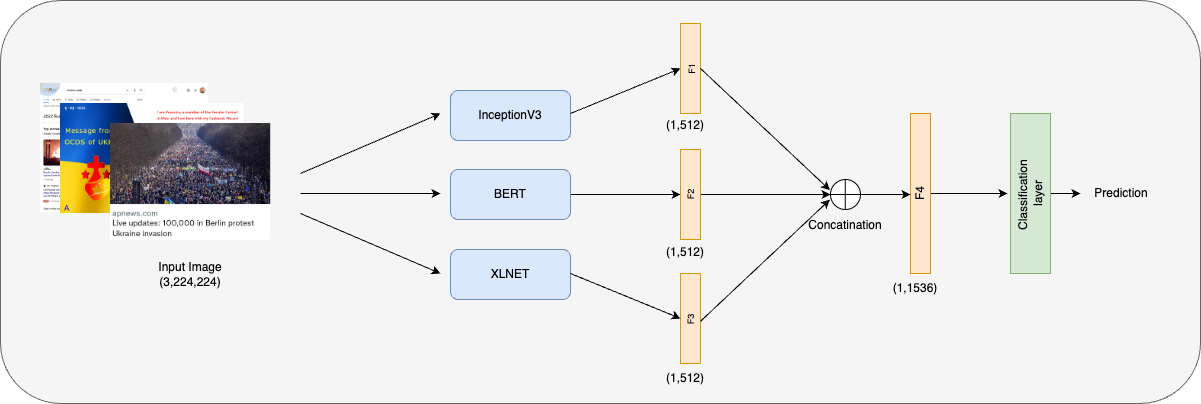
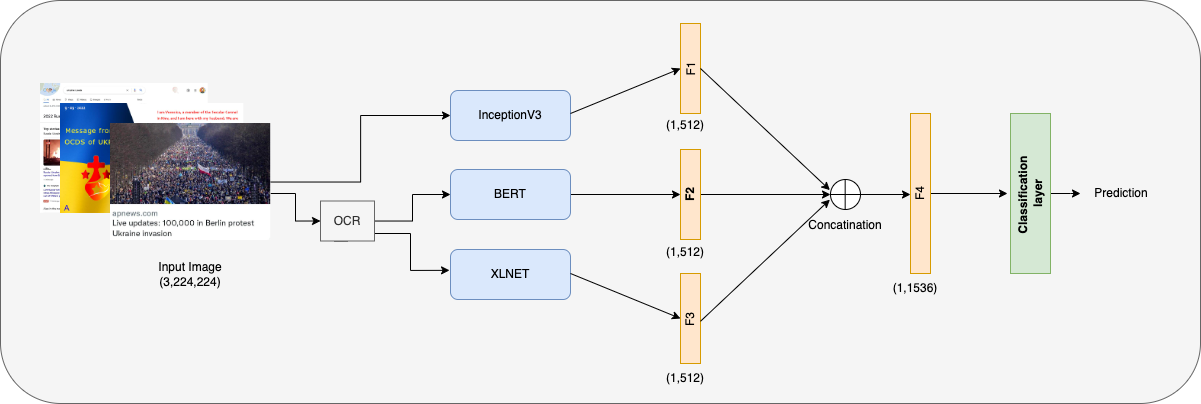
minor changes

diff --git a/model.py b/model.py
@@ -20,8 +20,8 @@ class ReBert(nn.Module):
 
       self.bert = bert.to(device)
       self.xlnet  = xlnet.to(device)
-      self.mobilenet = models.mobilenet_v3_small(pretrained=True)
-      self.mobilenet.classifier[3] = nn.Linear(in_features=1024, out_features=512, bias=True)
+      self.inception = models.inception_v3(pretrained=True)
+      self.inception.fc = nn.Linear(in_features=2048, out_features=512, bias=True)
       
 
       # dropout layer
@@ -62,7 +62,7 @@ class ReBert(nn.Module):
       x0 = self.relu(self.fc0(x0.pooler_output))
       
       image = image.permute(0,3,1,2)
-      x2 = self.relu(self.mobilenet(image))
+      x2 = self.relu(self.inception(image))
 
       x = self.fc2(torch.concat((x0,x1,x2),1))
       x = self.relu(x)
